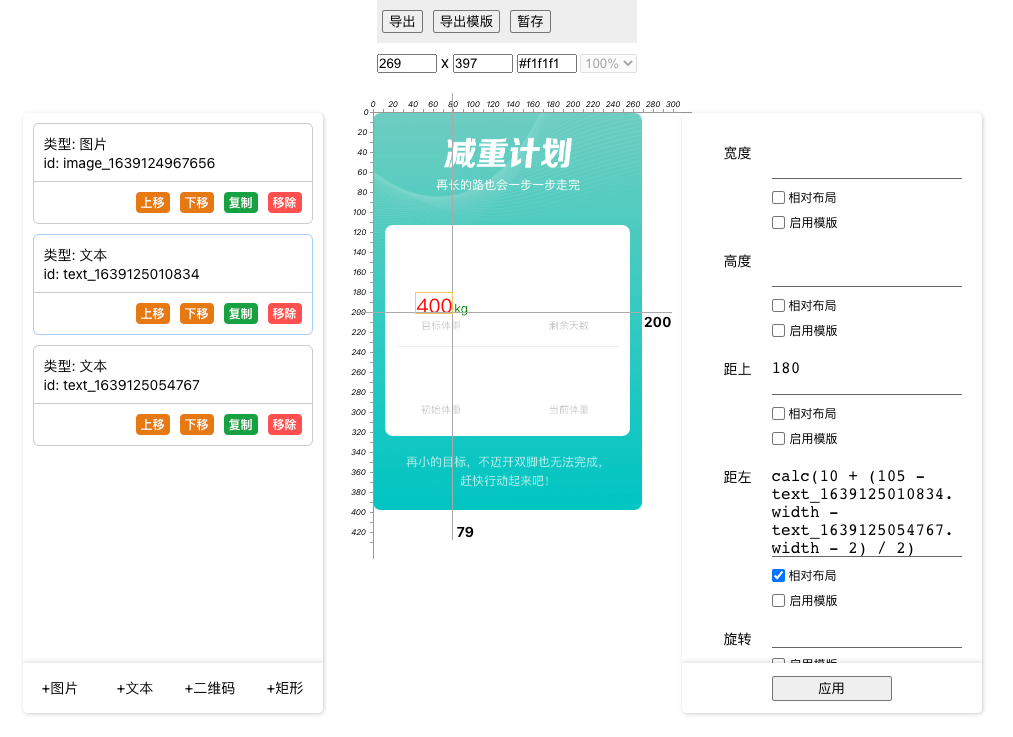
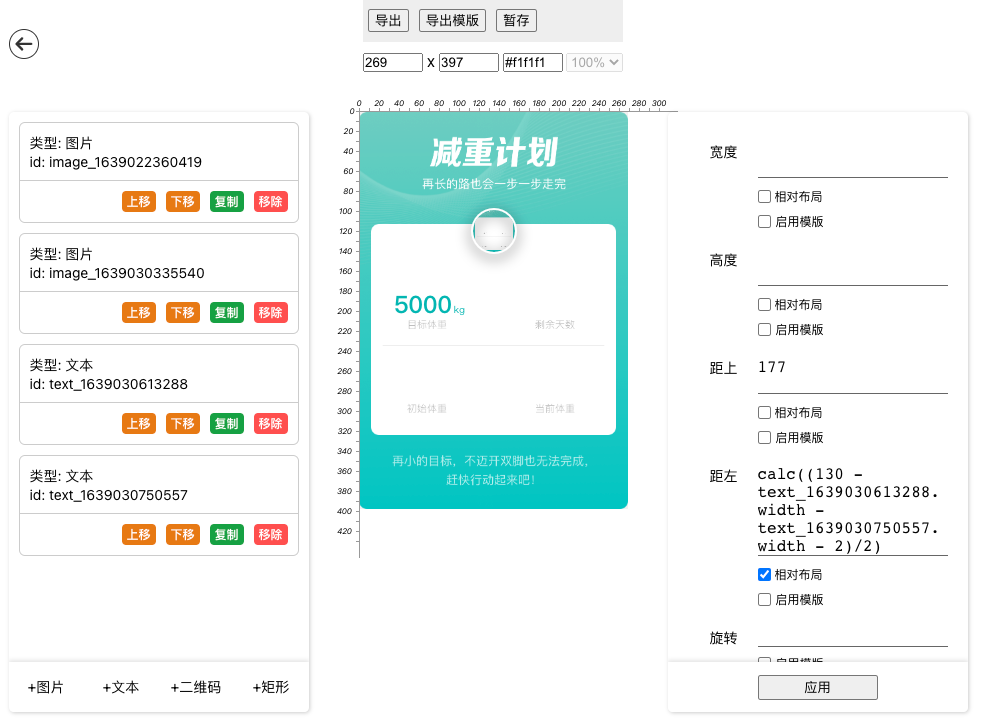
feat: 编辑页面新增返回按钮

diff --git a/src/component/back/index.js b/src/component/back/index.js
@@ -1,0 +1,19 @@
+import React from 'react'
+import useProject from '../../hooks/useProject'
+import './index.less'
+
+export default function Back({ css }) {
+  const project = useProject()
+
+  const handleClick = () => project.setName('')
+
+  return (
+    <div className="back" style={css} onClick={handleClick}>
+      <div className="back__icon">
+        <svg viewBox="0 0 1025 1024" version="1.1" xmlns="http://www.w3.org/2000/svg" width="100%" height="100%">
+          <path fill="#333" d="M533.353412 682.285176c0-0.030118 0.060235-0.060235 0.060235-0.090353C533.172706 682.194824 533.142588 682.224941 533.353412 682.285176zM40.176941 555.008l314.398118 314.398118c27.045647 27.045647 70.927059 27.045647 97.942588 0 27.045647-26.985412 27.045647-70.866824 0-97.912471l-196.186353-196.216471 665.630118 0c38.249412 0 69.240471-31.021176 69.240471-69.240471 0-38.279529-31.021176-69.270588-69.240471-69.270588L256.361412 436.766118l196.186353-196.186353c27.045647-27.015529 27.045647-70.927059 0-97.942588C439.024941 129.114353 421.285647 122.337882 403.546353 122.337882c-17.709176 0-35.448471 6.776471-48.941176 20.299294L40.176941 457.065412C13.101176 484.111059 13.101176 527.932235 40.176941 555.008z" p-id="2290"></path>
+        </svg>
+      </div>
+    </div>
+  )
+}

diff --git a/src/component/simulator/index.js b/src/component/simulator/index.js
@@ -12,6 +12,7 @@ import { cloneDeep } from 'lodash'
 import usePalette from '../../hooks/usePalette'
 import useProject from '../../hooks/useProject'
 import { getPosInOffsetCloset } from '../../core/domTool'
+import Back from '../back'
 
 const initialAttrEditor = {
   visible: false,
@@ -35,6 +36,7 @@ export default function Simulator() {
     ...initialAttrEditor
   }) // 属性编辑
   const [viewListStyle, setViewListStyle] = useState({}) // view 列表
+  const [backStyle, setBackStyle] = useState({}) // view 列表
   const [activeViewId, setActiveViewId] = useState('')
   const [mousePos, setMousePos] = useState({
     x: 0,
@@ -54,6 +56,9 @@ export default function Simulator() {
     }))
     setViewListStyle({
       top,
+      left: rect.left - 350
+    })
+    setBackStyle({
       left: rect.left - 350
     })
   }, [device.width])
@@ -202,6 +207,8 @@ export default function Simulator() {
           defaultValue={attrEditor.defaultValue}
           visible={attrEditor.visible}
           css={attrEditor.css}/>
+        {/* 返回按钮 */}
+        <Back css={backStyle}/>
       </editContext.Provider>
     </div>
   )

diff --git a/src/component/back/index.less b/src/component/back/index.less
@@ -1,0 +1,12 @@
+.back {
+  position: fixed;
+  cursor: pointer;
+  top: 30px;
+  &__icon {
+    width: 30px;
+    height: 30px;
+    border: 1px solid #333;
+    border-radius: 50%;
+    padding: 5px;
+  }
+}
